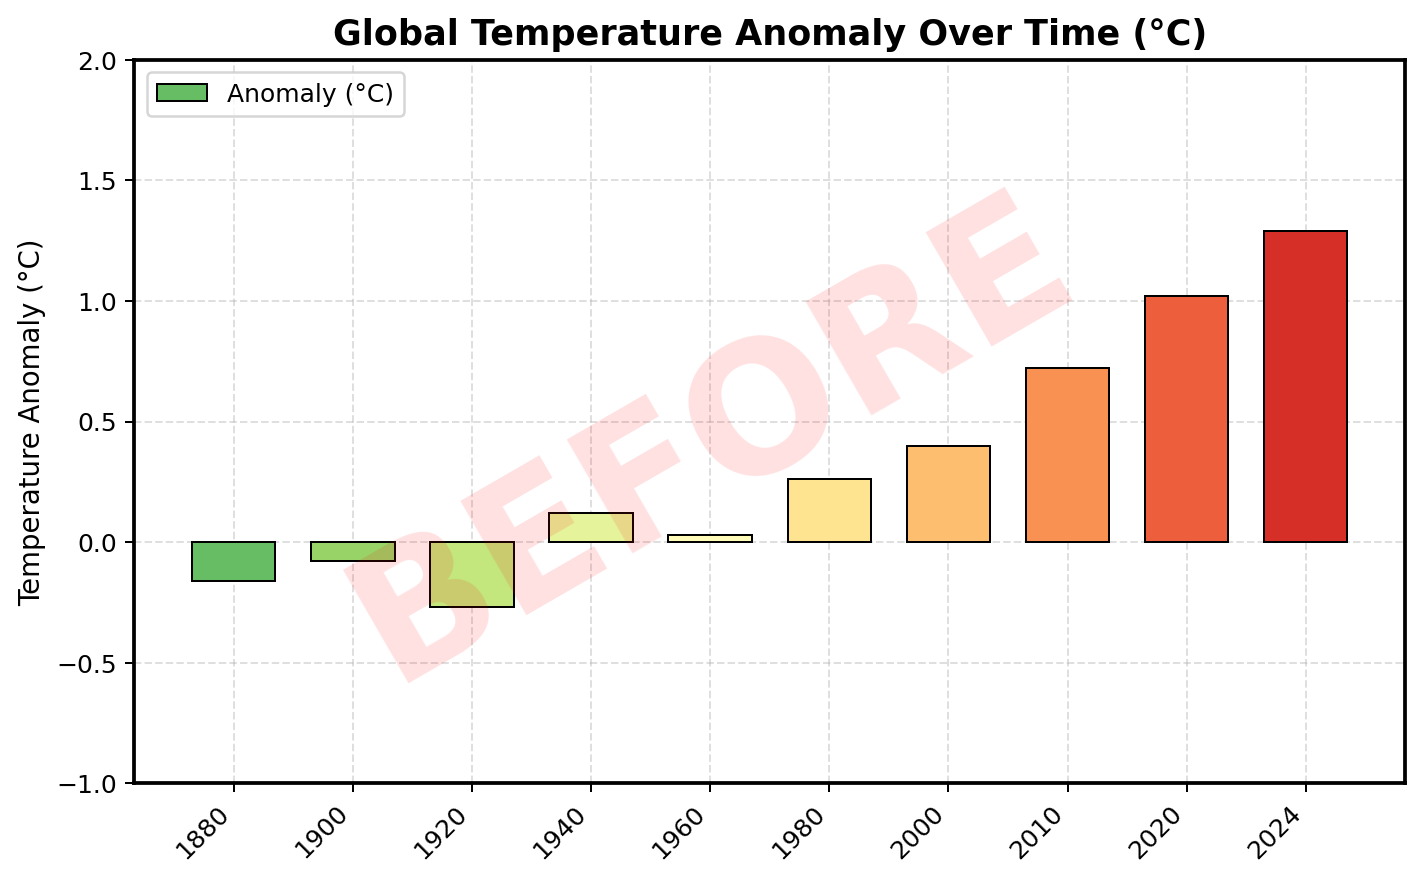
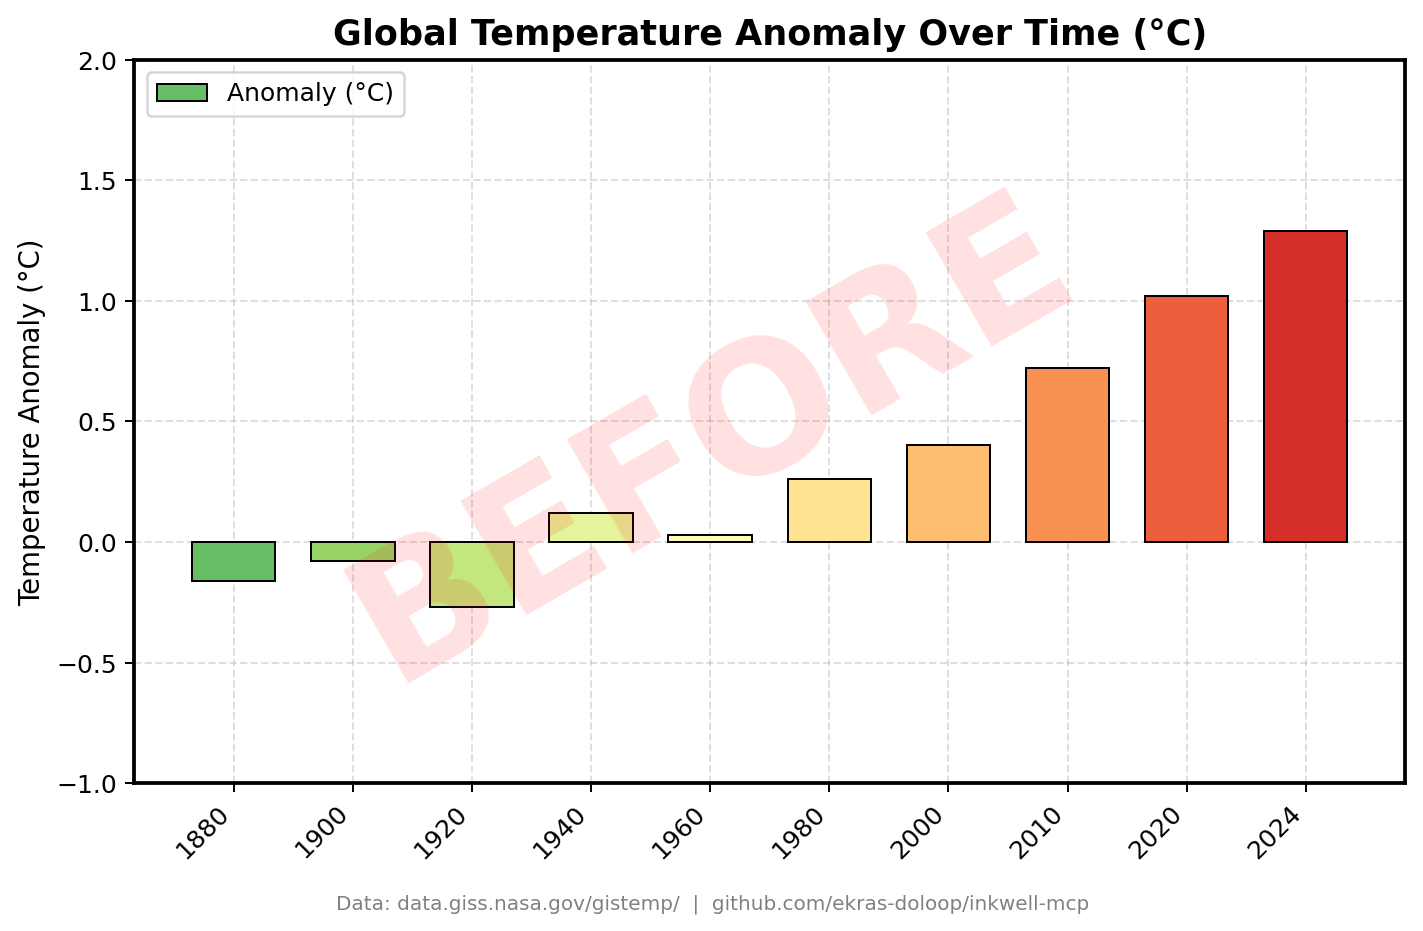
Add data source URL and repo link to before/after images

diff --git a/examples/before_after.py b/examples/before_after.py
@@ -59,6 +59,10 @@ def before():
     fig.text(0.5, 0.5, "BEFORE", fontsize=72, color="red", alpha=0.12,
              ha="center", va="center", fontweight="bold", rotation=30)
 
+    # Source and repo
+    fig.text(0.5, -0.02, "Data: data.giss.nasa.gov/gistemp/  |  github.com/ekras-doloop/inkwell-mcp",
+             fontsize=8, color="gray", ha="center", fontfamily="sans-serif")
+
     plt.tight_layout()
     fig.savefig(OUT / "before.png", dpi=180, bbox_inches="tight",
                 facecolor="white")
@@ -133,6 +137,10 @@ def after():
     # "AFTER" watermark
     fig.text(0.5, 0.5, "AFTER", fontsize=72, color="#27ae60", alpha=0.08,
              ha="center", va="center", fontweight="bold", rotation=30)
+
+    # Source and repo
+    fig.text(0.5, -0.02, "Data: data.giss.nasa.gov/gistemp/  |  github.com/ekras-doloop/inkwell-mcp",
+             fontsize=8, color=MUTED, ha="center", fontfamily="serif")
 
     plt.tight_layout()
     fig.savefig(OUT / "after.png", dpi=180, bbox_inches="tight",
